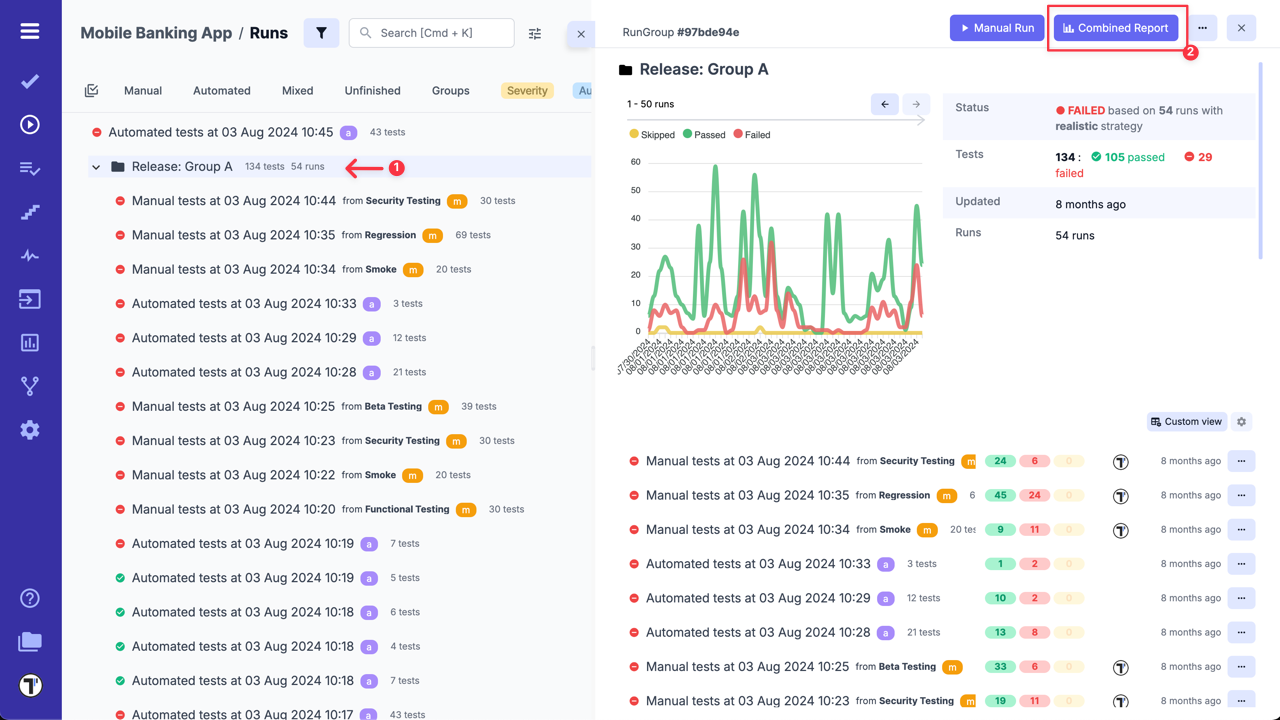
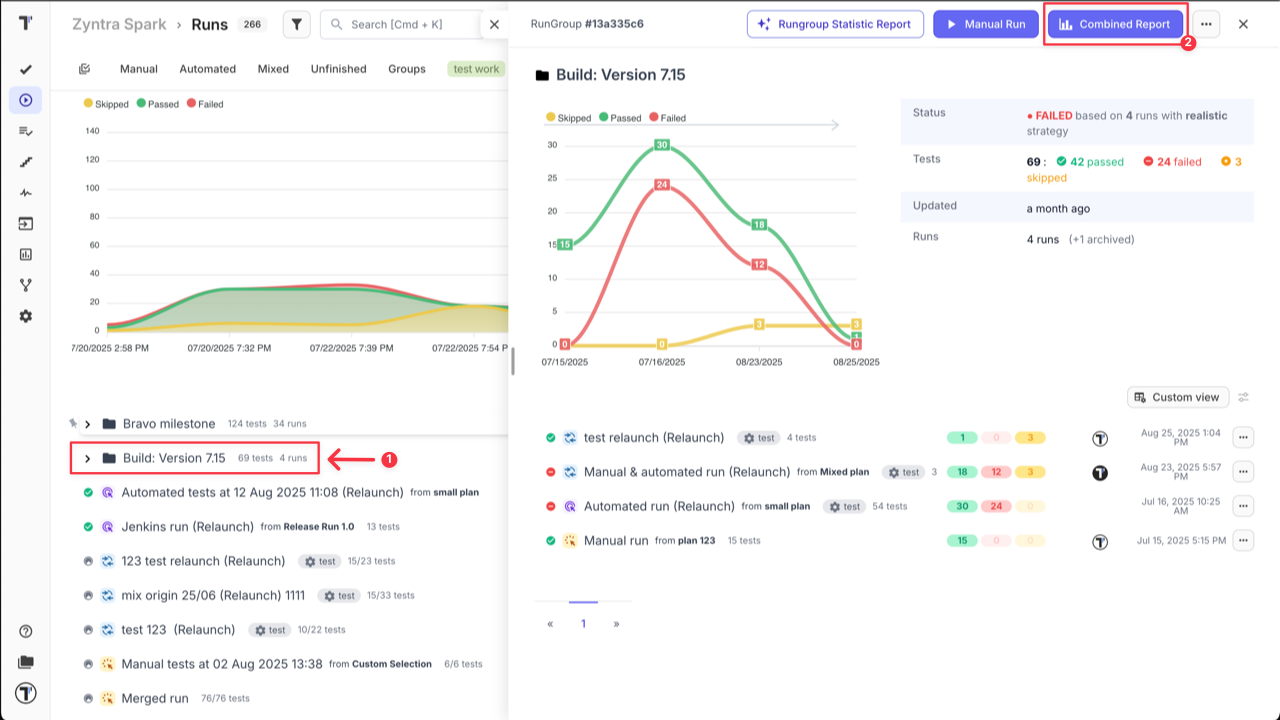
RunGroups, Reports, AI RunGroup Report

diff --git a/src/content/docs/project/runs/rungroups.md b/src/content/docs/project/runs/rungroups.md
@@ -39,15 +39,33 @@ The new RunGroup will appear on Runs page and will open automatically after crea
 
 After RunGroup is added, you can create new Manual/Automated/Mixed Runs inside it.
 
+## How to Create a Run in RunGroup
+
 - To create a new **Manual Run**, open the RunGroup and click on **'Manual Run'** button.
 
 ![Testomat.io - put Manual Run](./images/RunGroup_4.png)
 
+After this in the displayed window select a test plan from the list or create a new one, and fill in other data that you need for your run (like: assignee, title, environment, description).
+
+:::note
+
+When you create a manual run from RunGroup, it will be automatically pre-populated on the **'New Manual Run'** window, but you can change it if needed.
+
+:::
+
+![Testomat.io - put Manual Run](./images/RunGroup_7.png)
+
 - To add a new **Automated Run** to a RunGroup, execute your tests with Testomat.io, providing TESTOMATIO_RUNGROUP_TITLE="Build ${BUILD_ID}".
 
-Now you can view Test Runs within your created RunGroup.
+Now, by clicking on expand arrow, you can view Test Runs and their results within created RunGroup.
 
 ![Testomat.io - Test Runs in a created RunGroup](./images/RunGroup_5.png)
+
+Clicking on RunGroup name will toggle RunGroup Report screen in basic view. Here you can view more detail information about the runs inside selected RunGroup and total results.
+
+![Testomat.io - Test Runs in a created RunGroup](./images/RunGroup_6.png)
+
+For more details go to the relevant section - [RunGroup Report in Basic View](https://docs.testomat.io/project/runs/reports/#rungroup-report-in-basic-view) on **'Reports'** page.
 
 ## How to Move a Run to a RunGroup
 
@@ -64,6 +82,28 @@ You may need to move a Run to a specific RunGroup (e.g., to associate it with a 
 6. Click the **'Move'** button to confirm action.
 
 ![Testomat.io - Destination RunGroup selection dialog](./images/Move_Run_2.png)
+
+## RunGroup Report Basic View
+
+You can view RunGroup Report by clicking on its name.
+
+![Testomat.io - Test Runs in a created RunGroup](./images/RunGroup_6.png)
+
+**In this basic RunGroup Report, you can:**
+
+1. View the [RunGroup Chart](https://docs.testomat.io/project/runs/rungroups/#rungroup-chart).
+2. Review **'RunGroup summary section'** with general information based on the selected [Merge Strategy](https://docs.testomat.io/project/runs/merge-strategies/).
+3. View a list of test runs, their statuses with the number of Passed, Failed, Skipped tests, along with the run assignee and executed time.
+4. Customize your RunGroup Report view (Read more in the [How to Customize Runs List View ](https://docs.testomat.io/project/runs/rungroups/#how-to-customize-runs-list-view) section below).
+5. Check **'Combined Report'** (Read more in the [Combined Report for RunGroups](https://docs.testomat.io/project/runs/rungroups/#combined-report-for-rungroups) section below).
+6. Add a new Manual Run to the selected RunGroup.
+7. Generate a [Rungroup Statistic Report](https://docs.testomat.io/advanced/ai-powered-features/ai-powered-features/#rungroup-statistic-report)(AI-feature should be enabled on **'Company Settings'** page).
+
+![Testomat.io - RunGroup Report](./images/RunGroup_Report_1.png)
+
+The **'RunGroup summary section'** displays a counter with the number of included and analyzed runs in the RunGroup. Archived runs are excluded from this counter and do not affect the total RunGroup result. You can see how many runs were archived, and by clicking on archived counter, you will be redirected to the **'Groups Archive'** page, where runs are already filtered by selected RunGroup.
+
+![Testomat.io - RunGroup Report](./images/RunGroup_Report_2.png)
 
 ## How to Customize Runs List View 
 
@@ -126,6 +166,42 @@ The chart displays up to 50 of the latest test runs belonging to the group. If y
 
 ![Testomat.io - RunGroup Chart](./images/RunGroup_Chart.png)
 
+## Combined Report for RunGroups
+
+Testomat.io provides a **'Combined Report'** feature for RunGroups. This report is designed to help you aggregate and analyze the results of all test runs within the RunGroup in a single view.
+
+You can open **'Combined Report'** for a RunGroup by clicking on **'Combined Report'** button from the RunGroup Report Basic View window.
+
+![Testomat.io - Combined Report](./images/Combined_report.png)
+
+The comparison of runs is based on the first (main) launch. The statuses counters on the left side are calculated based on the main run. 
+
+To change the main run, click the **'Compare To'** button. Note that the counters of loaded tests is above them. The final summary on the right side is calculated based on the loaded tests.
+
+![Testomat.io - Combined Report](./images/Combined_report_1.png)
+
+:::note
+
+The **'Combined Report'** feature for RunGroups does **not** combine test results of all runs inside one RunGroup into a single report. It only allows you **to compare** test results of all runs within this RunGroup.
+
+:::
+
+Inside the **'Combined Report'**, you can get a quick overview of the pass/fail rates for all tests within the Group. You can also see the total number of tests present in all compared runs, as well as the total number of flaky (unstable tests that passed or failed in different runs), revieved (previously failing that passed in next runs), and degraded (previously passed that failed in next runs) tests. 
+
+Additionally, you can use filters and search features to view the data most relevant to your needs.
+
+![Testomat.io - Combined Report](./images/Combined_report_2.gif)
+
+**Key benefits:**
+
+- **Analyze Trends:** By seeing the results from multiple runs in one place, you can identify trends in test performance and stability over time.
+
+- **Consolidate Data:** The combined report is especially useful for "mixed runs" (runs that include both manual and automated tests), as it consolidates all results into a single, cohesive report.
+
+- **Compare Runs:** Testomat.io also has a separate **'Compare Test Runs'** feature that can be used within a RunGroup. This allows you to side-by-side compare the results of different runs to pinpoint changes, regressions, or improvements. (Go to [Compare Test Runs](https://docs.testomat.io/project/runs/reports/#compare-test-runs) section on **'Run reports'** page to read more about this feature.)
+
+This feature is a powerful tool for project managers, QA leads, and stakeholders who need to make informed decisions based on a holistic view of testing activities, without having to manually compile data from individual reports.
+
 ## How to Copy RunGroup
 
 You can easily create a new RunGroup, completely independent of any previous runs, by copying all relevant tests exactly as they are. You can configure what data should be copied, namely:
@@ -136,7 +212,7 @@ You can easily create a new RunGroup, completely independent of any previous run
 - **Environments**: Control the duplication of environment settings based on your requirements.
 - **Nested Structure**: Preserve or exclude the nested structure of your test groups as you duplicate them.
 
-Follow these steps: 
+**Follow these steps:**
 
 1. Open the RunGroup. 
 2. Click the **'Extra menu'** button.

diff --git a/src/content/docs/project/runs/reports.md b/src/content/docs/project/runs/reports.md
@@ -14,15 +14,15 @@ When you run tests with Testomat.io, the system generates a **Run Report** displ
 
 ## Run Report Basic View
 
-Clicking on the Test Run will toggle RunReport screen in basic view.
+Clicking on the Test Run will toggle Run Report screen in basic view.
 
 ![Testomat.io - RunReport](./images/Run_Report_1.png)
 
-**On this basic report you can:**
+**In this basic Run Report, you can:**
 
 1. View a list of test cases.
-2. Check their status (Passed, Failed, Skipped, Pending, Custom statuses).
-3. Reiew general information on the Run Result.
+2. Check their statuses (Passed, Failed, Skipped, Pending, Custom statuses).
+3. Review general information on the Run Result.
 
 ![Testomat.io - RunReport](./images/Run_Report_2.png)
 
@@ -55,7 +55,7 @@ You can also check overall **Statistics** by suites/tags/labels/assignees/priori
 
 Testomat.io allows you to customize the dispalay of test cases within a Run Report.
 
-**This geature helps you:**
+**This feature helps you:**
 
 - **Show or hide columns** such as test status, duration, labels, tags, priority, etc.
 - **Focus only on the data** most reelvant to you or your team.
@@ -127,6 +127,17 @@ Use ↓ and ↑ keys to navigate tests and quickly view details for each test.
 Similar to the basic run report view, click on a test case to see its details or the history of run results.
 
 ![Testomat.io - RunReport](./images/Run_Report_15.gif)
+
+## RunGroup Report
+
+The same as for Runs, you can also view RunGroups Reportes.
+To open **RunGroup Report basic view**, simply click on its name - RunGroup Report window will be displayed with general information and runs summary.
+
+![Testomat.io - Test Runs in a created RunGroup](./images/RunGroup_6.png)
+
+For more information go to the [RunGroup Report Basic View](https://docs.testomat.io/project/runs/rungroups#rungroup-report-basic-view) section **'RunGroups'** page.
+
+From RunGroup Report Basic View you can open **Combined Report for RunGroups**, by clicking on the **'Combined Report'** button. This Report is designed to help you aggregate and analyze the results of multiple test runs within a single view. You can find more information about this report in [Combined Report for RunGroups](https://docs.testomat.io/project/runs/rungroups/#combined-report-for-rungroups) section on **'RunGroups'** page.
 
 ## How to Download Run Report as Spreadsheet
 
@@ -294,19 +305,4 @@ To compare Runs:
 
 ![Testomat.io - Compare Test Runs](./images/compare-runs.gif)
 
-This feature is also available for RunGroups, allowing you to compare test results from different runs within a single RunGroup.
-
-1. Open RunGroup.
-2. Click the **'Combined Report'** button.
-
-![Testomat.io - Combined Report](./images/Combined_report.png)
-
-3. Click the **'Compare to'** button to select the run you want to compare with others.
-
-![Testomat.io - Combined Report](./images/Combined_report_1.png)
-
-:::note
-
-The **'Combined Report'** feature for RunGroups does **not** combine test results of all runs inside one RunGroup into a single report. It only allows you **to compare** test results of all runs within this RunGroup.
-
-:::
+This feature is also available for RunGroups, allowing you to compare test results from different runs within a single RunGroup. You can find more information about it in the [Combined Report for RunGroups](https://docs.testomat.io/project/runs/rungroups/#combined-report-for-rungroups) section on **'RunGroups'** page.

diff --git a/src/content/docs/advanced/ai-powered-features/ai-powered-features.md b/src/content/docs/advanced/ai-powered-features/ai-powered-features.md
@@ -241,13 +241,35 @@ The **Runs Status Report** gives you a quick overview of test stability, critica
 - **Execution Time Trends** – How test durations are behaving over time.
 - **Top Errors** – Most frequent failure messages to help speed up debugging.
 - **Systematic Failures** – Pinpointed test cases that failed consistently and may block critical flows.
-- **Note** - Hightlights the test runs that were analyzed in the Run Status Report by AI.
+- **Note** - Hightlights the test runs that were analyzed in the Runs Status Report by AI.
 
 **To access this feature:**
 
 1. Go to 'Runs' page.
-2. Click on **'Run Status Report'** button. 
+2. Click on **'Runs Status Report'** button. 
 
 ![Testomat.io - AI-powered Project Runs Status Report](./images/AI_14.gif)
 
 This report is available automatically based on recent test run history, giving your team instant visibility into the health of your project.
+
+## RunGroup Statistic Report
+
+The **'RunGroup Statistic Report'** — a new way to analyze the health and progress of test runs grouped together.
+
+**This report includes:**
+
+- **Run Execution Summary** – a quick breakdown of passed, failed, and skipped tests across all runs in the group.
+- **Detailed Analytics by Run Status** – view trends, patterns, and key metrics within each run.
+- **TOP Failed Tests** - view tests that failed the most in total.
+- **AI-Powered Recommendations** – suggested actions to improve stability and address recurring issues
+Perfect for teams managing large-scale test executions across multiple environments or test types.
+
+**To access this feature:**
+
+1. Go to 'Runs' page.
+2. Select RunGroup you want to analyze.
+3. Click **'RunGroup Statistic Report'** button.
+
+![Testomat.io - AI-powered Project Runs Status Report](./images/AI_RunGroup_Report_1.gif)
+
+This report is perfect for teams managing large-scale test executions across multiple environments or test types.
